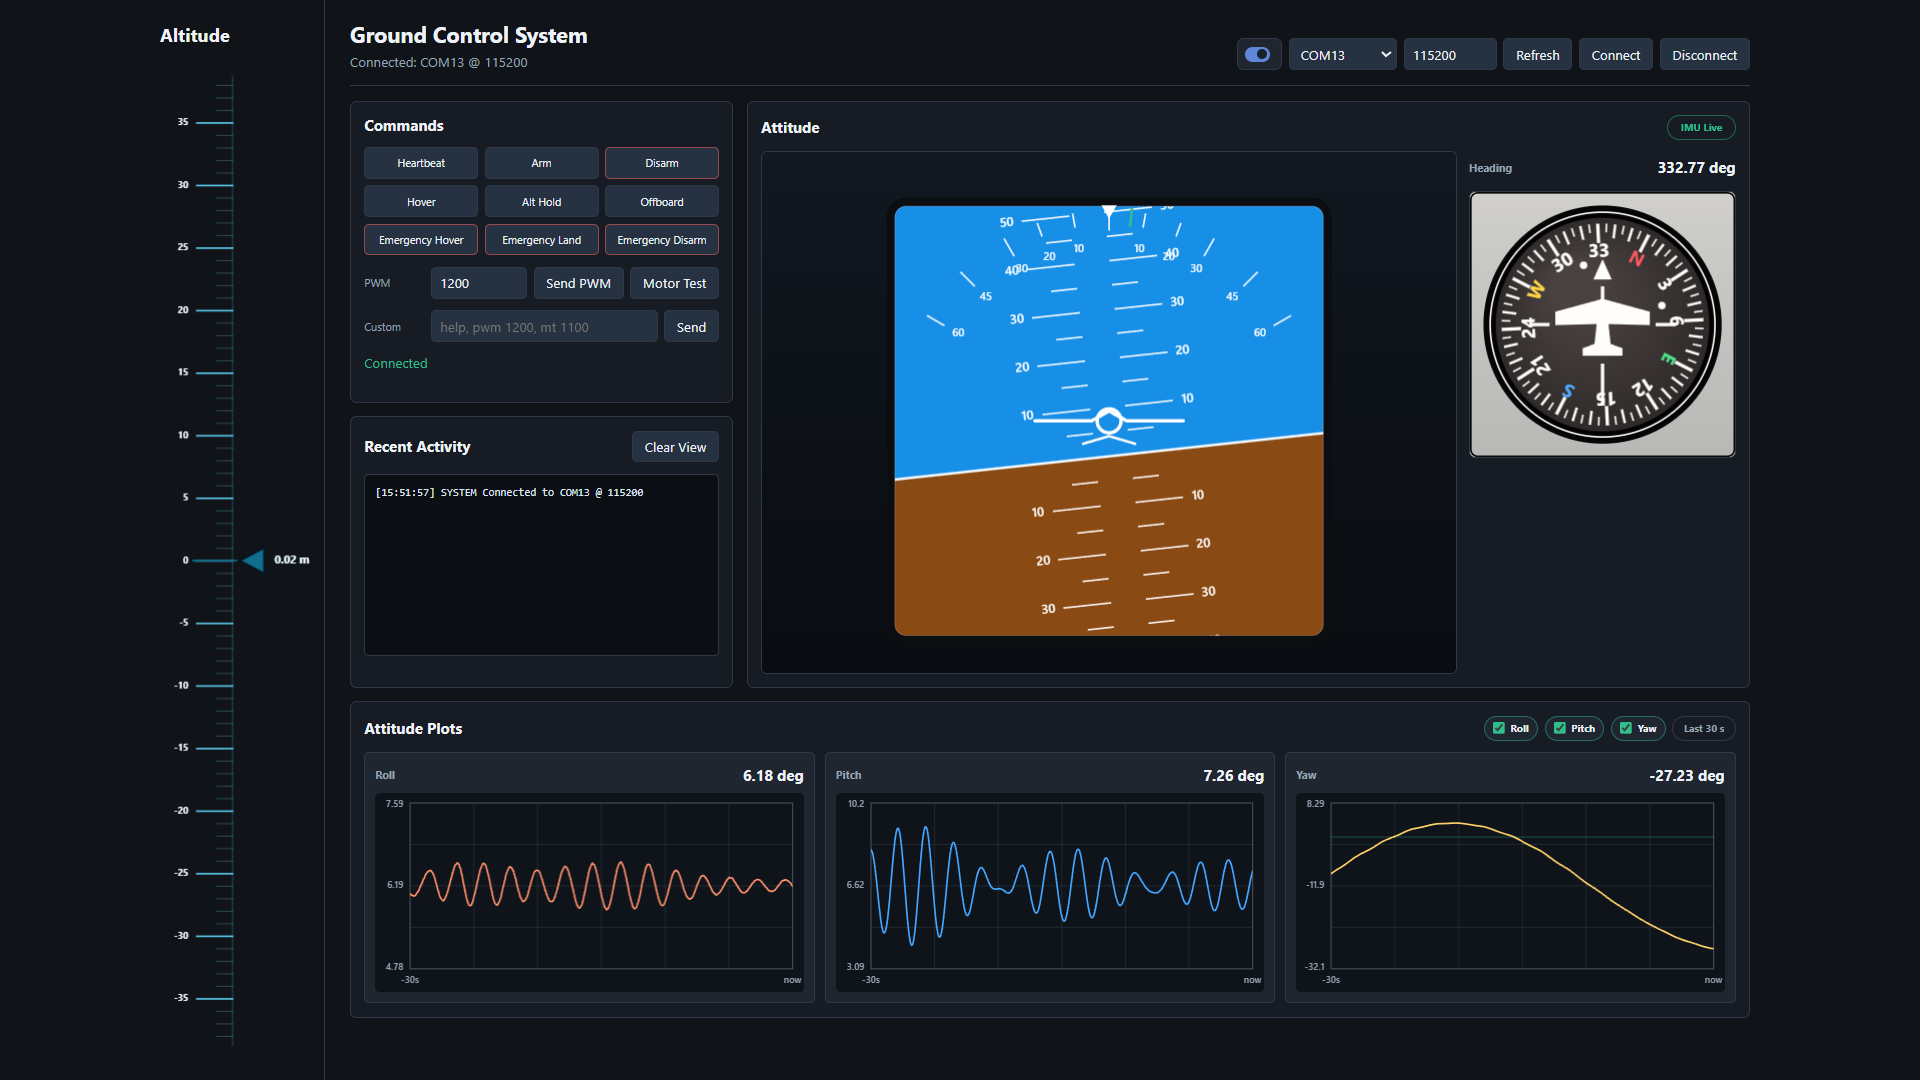
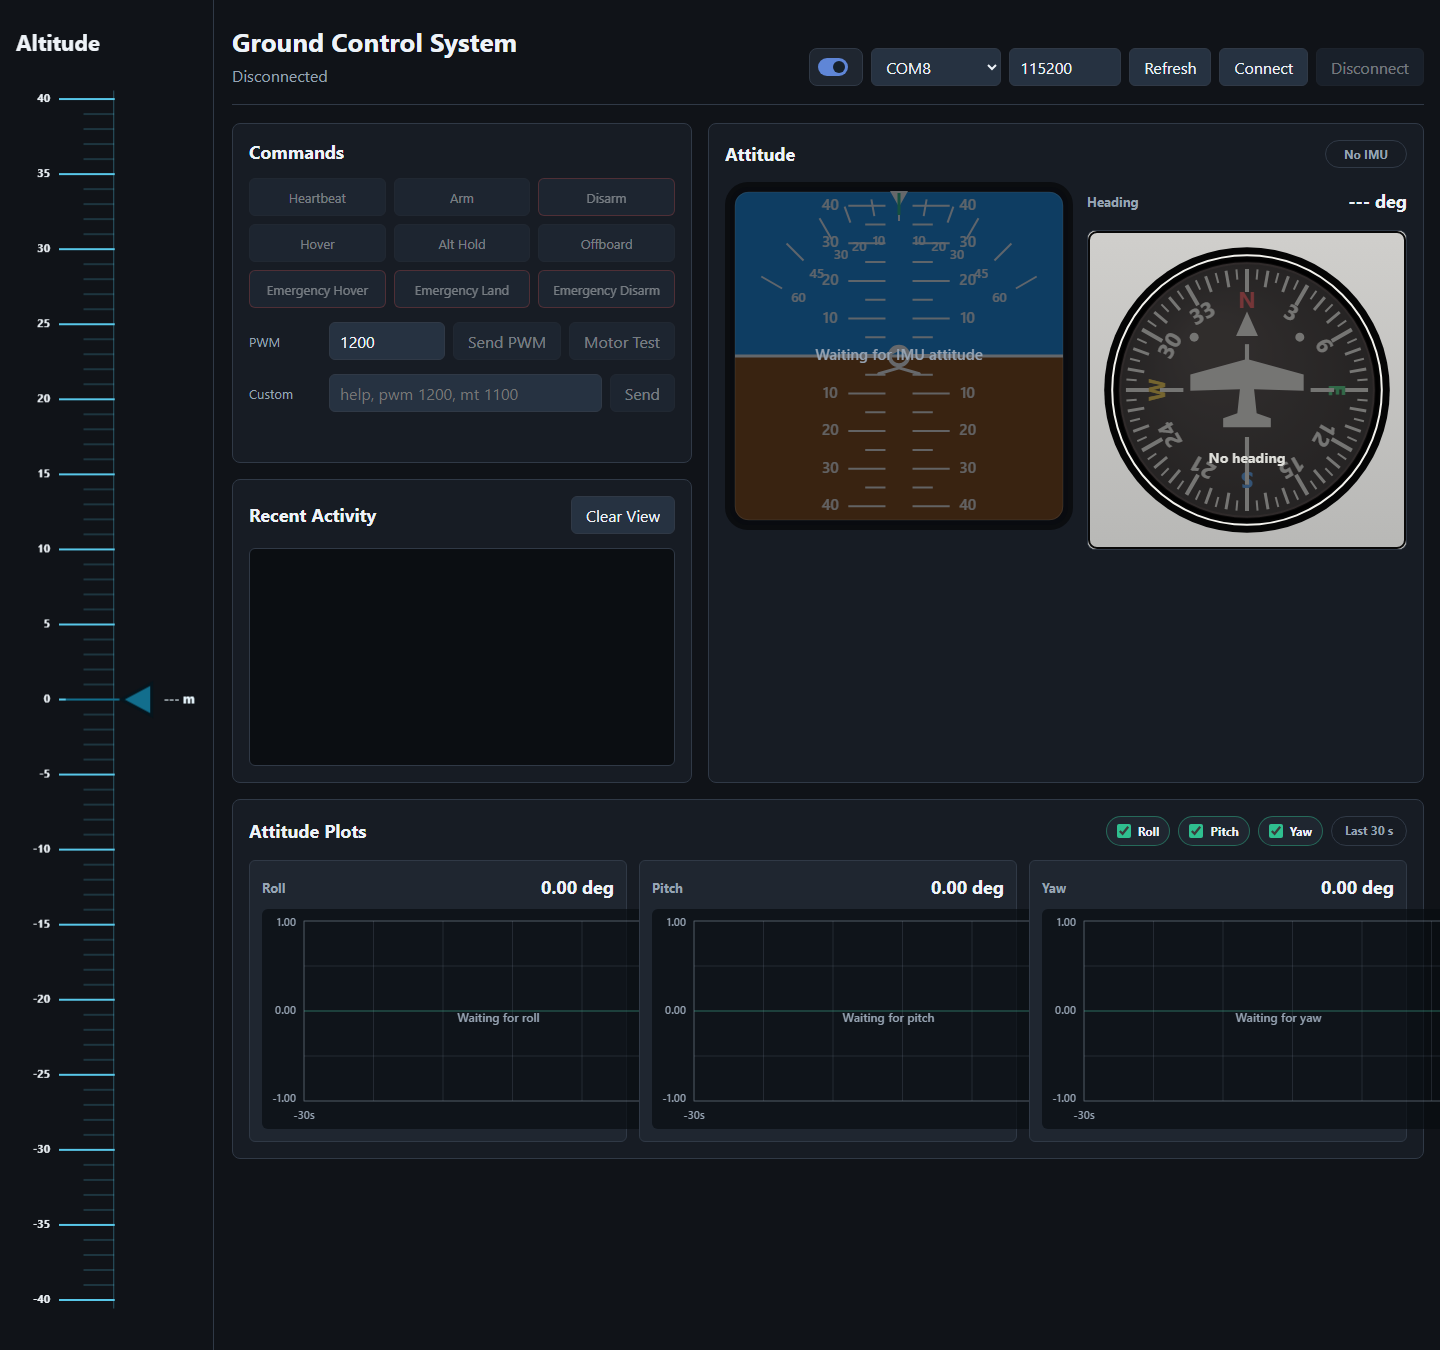
feat: Fill the canvas of Roll&Pitch indicator

diff --git a/web/static/attitude.js b/web/static/attitude.js
@@ -54,21 +54,29 @@ class AttitudeIndicator {
     const ctx = this.ctx;
     const w = this.width;
     const h = this.height;
-    const cx = w / 2;
-    const cy = h / 2 + 10;
-    const radius = Math.min(w, h) * 0.42;
+    const inset = 6;
+    const viewport = {
+      x: inset,
+      y: inset,
+      width: w - inset * 2,
+      height: h - inset * 2,
+      radius: 18,
+    };
+    const cx = viewport.x + viewport.width / 2;
+    const cy = viewport.y + viewport.height / 2;
+    const radius = Math.min(viewport.width, viewport.height) / 2;
 
     ctx.clearRect(0, 0, w, h);
     this.drawPanelBackground(ctx, w, h);
 
     ctx.save();
-    this.roundRectPath(ctx, cx - radius, cy - radius, radius * 2, radius * 2, 18);
+    this.roundRectPath(ctx, viewport.x, viewport.y, viewport.width, viewport.height, viewport.radius);
     ctx.clip();
     this.drawHorizon(ctx, cx, cy, radius);
     this.drawPitchLadder(ctx, cx, cy, radius);
     ctx.restore();
 
-    this.drawBezel(ctx, cx, cy, radius);
+    this.drawBezel(ctx, viewport);
     this.drawRollScale(ctx, cx, cy, radius);
     this.drawAircraftSymbol(ctx, cx, cy, radius);
     this.drawStatus(ctx, w, h);
@@ -155,16 +163,23 @@ class AttitudeIndicator {
     ctx.restore();
   }
 
-  drawBezel(ctx, cx, cy, radius) {
+  drawBezel(ctx, viewport) {
     ctx.save();
     ctx.strokeStyle = "#0b0d10";
     ctx.lineWidth = 10;
-    this.roundRectPath(ctx, cx - radius, cy - radius, radius * 2, radius * 2, 18);
+    this.roundRectPath(ctx, viewport.x, viewport.y, viewport.width, viewport.height, viewport.radius);
     ctx.stroke();
 
     ctx.strokeStyle = "rgba(255,255,255,0.24)";
     ctx.lineWidth = 1;
-    this.roundRectPath(ctx, cx - radius + 5, cy - radius + 5, radius * 2 - 10, radius * 2 - 10, 14);
+    this.roundRectPath(
+      ctx,
+      viewport.x + 5,
+      viewport.y + 5,
+      viewport.width - 10,
+      viewport.height - 10,
+      Math.max(0, viewport.radius - 4)
+    );
     ctx.stroke();
     ctx.restore();
   }